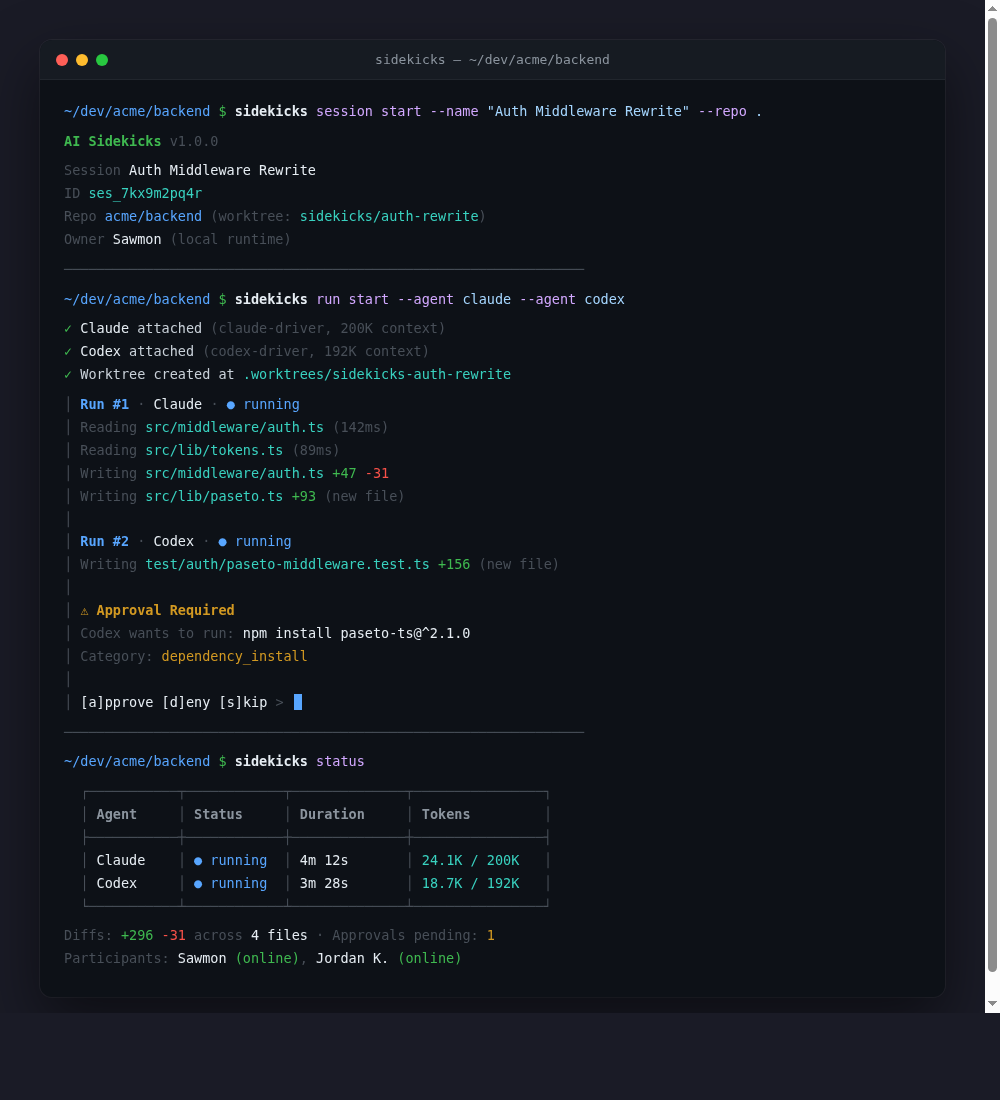
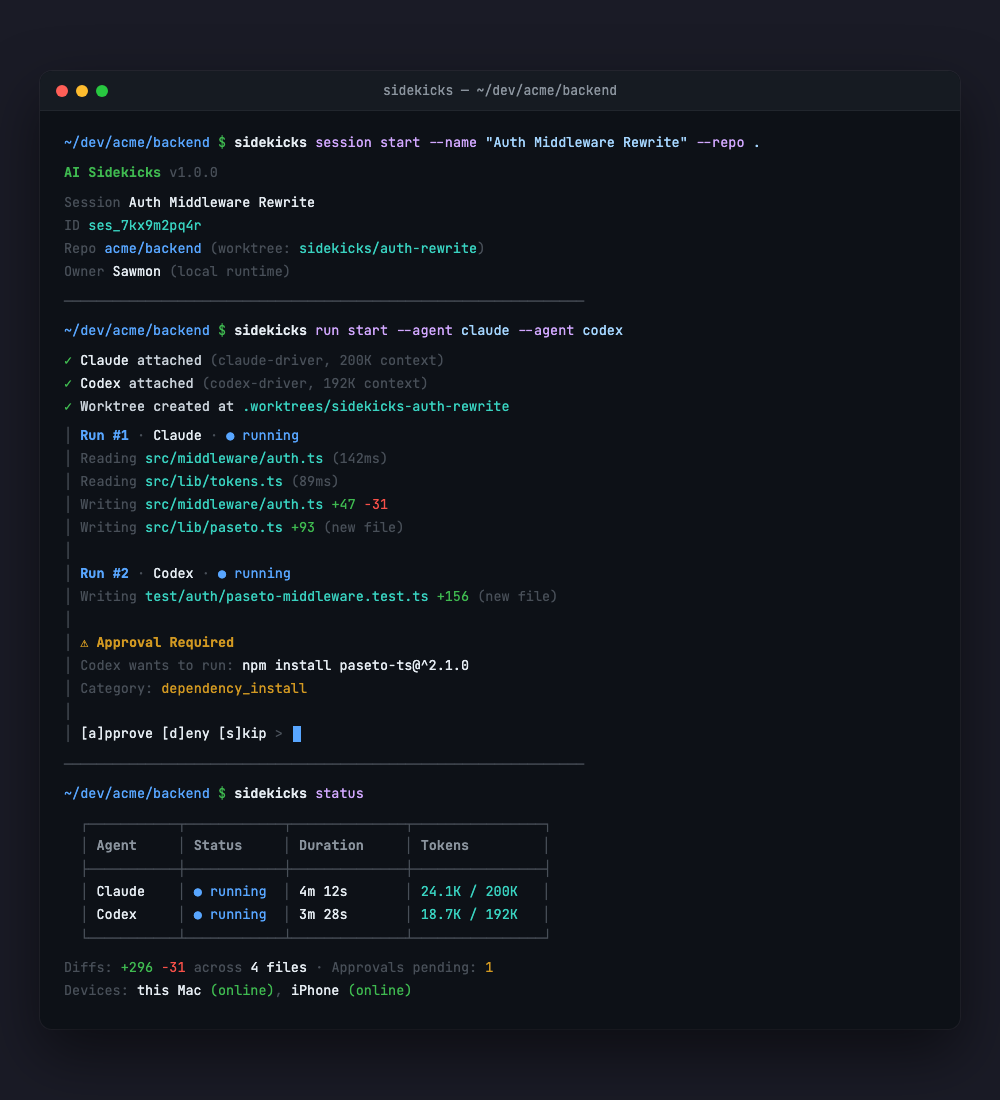
chore(repo): re-render the hero mockups onto one user and many devices
The two hero PNGs the README renders were captured before the corpus was recast onto one
user and their linked devices, so they still showed a second person in the session
("Participants: Sawmon, Jordan K.", "JK joined the session"). The HTML mockups beside them
were already recast; only the images were stale.

Re-rendered both PNGs headlessly from the mockups at the dimensions the originals used —
desktop-app-hero.png at 1440x1500 and cli-terminal-hero.png at 1000x1100, device scale
factor 1, which is each document's own layout size — so the README layout is unchanged.

The desktop mockup carried one residual people-collaboration marker the recast missed: a
timeline separator reading "JK joined the session" followed by an entry with a distinct
second-person avatar. That is now "iPhone linked to this session", and the entry reuses
the same user's avatar, which is what the entry header ("Sawmon - from iPhone") already
said.

diff --git a/assets/hero/desktop-app.html b/assets/hero/desktop-app.html
@@ -1399,18 +1399,13 @@
               </div>
             </div>
 
-            <!-- Second human joins -->
+            <!-- The same user, steering from a second linked device -->
             <div class="timeline-separator">
-              <span>JK joined the session &middot; 2:35 PM</span>
+              <span>iPhone linked to this session &middot; 2:35 PM</span>
             </div>
 
             <div class="timeline-entry">
-              <div
-                class="entry-avatar"
-                style="background: linear-gradient(135deg, #bc8cff, #f85149); color: white"
-              >
-                SB
-              </div>
+              <div class="entry-avatar human">SB</div>
               <div class="entry-content">
                 <div class="entry-header">
                   <span class="entry-author">Sawmon &middot; from iPhone</span>
